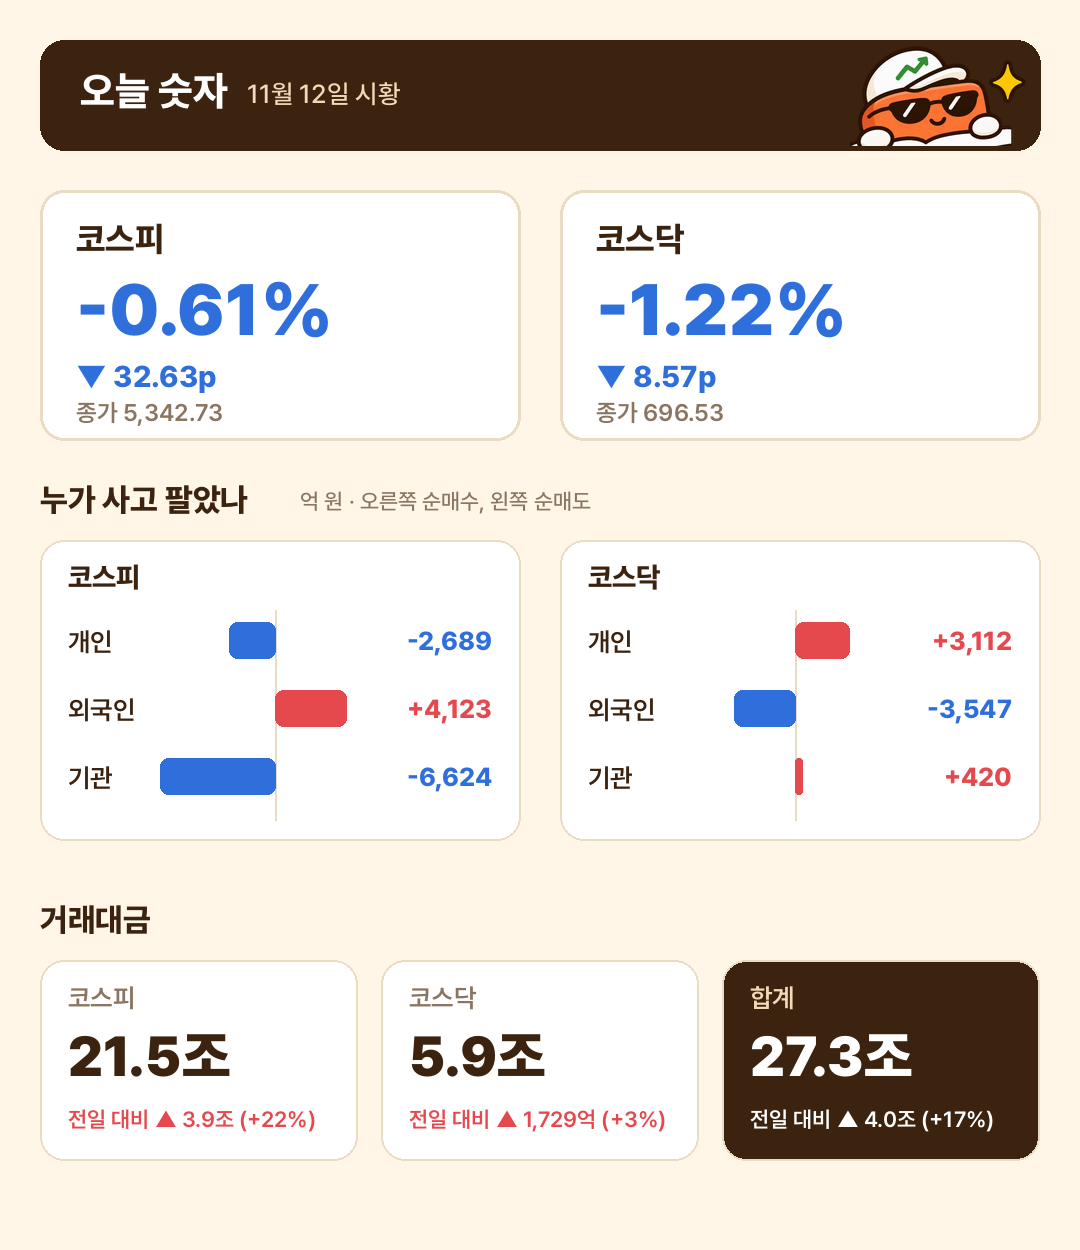
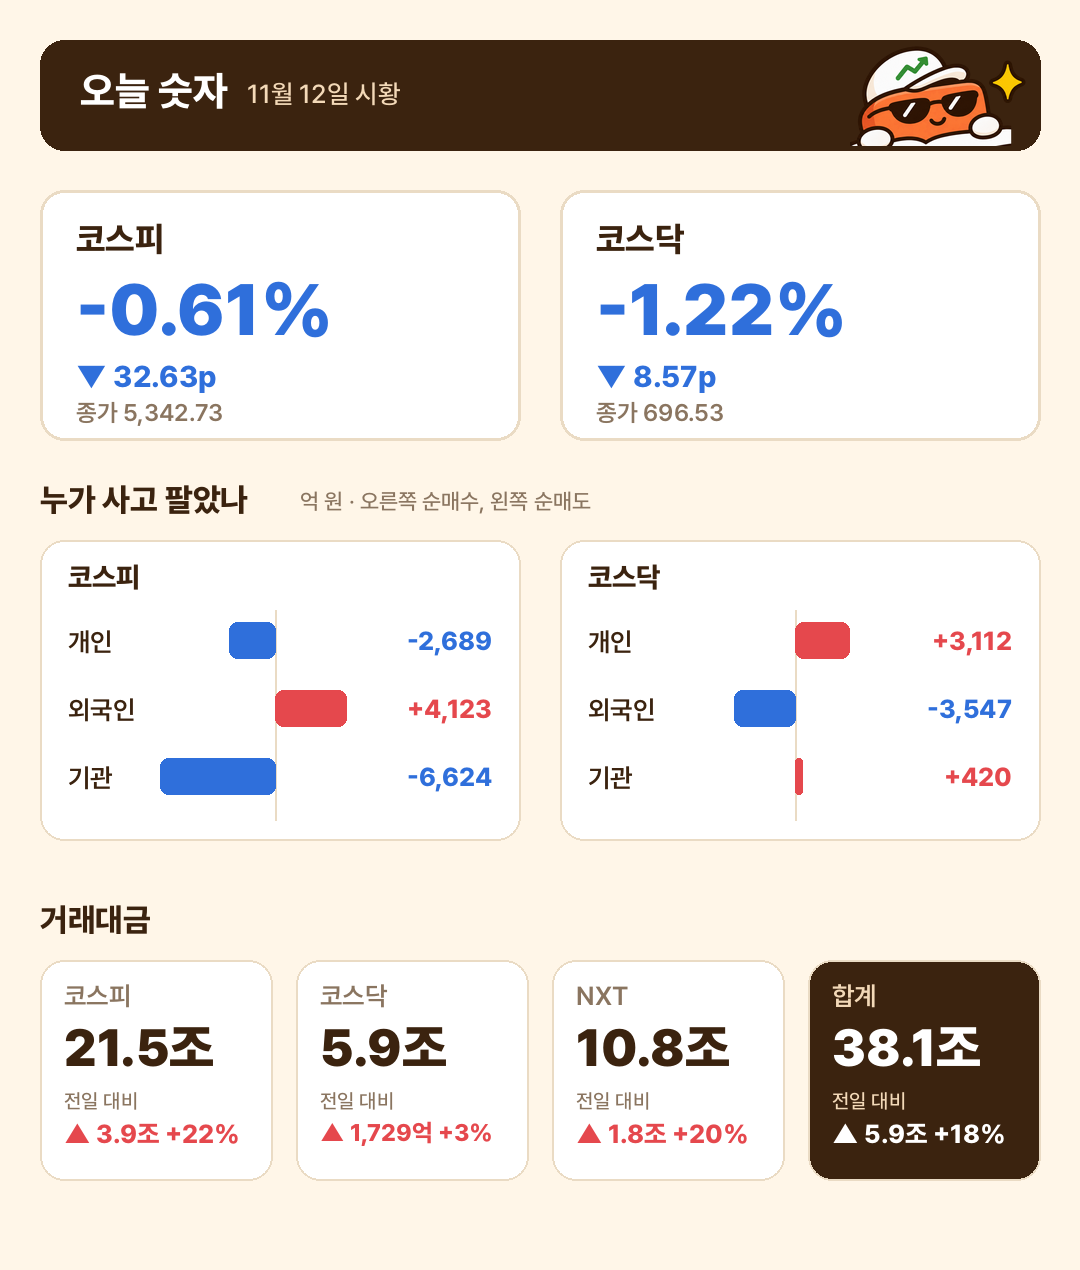
Add NXT trading value to daily numbers card
NXT's own daily table (일별거래현황, 백만원) gives pre, main and after
market value; the card shows the total next to KRX markets.

diff --git a/scripts/make_market_cards.py b/scripts/make_market_cards.py
@@ -190,7 +190,7 @@ def won(eok):
 def numbers_card(c, out):
     """데일리: 지수(등락률·전일 대비 포인트) + 시장별 투자자 순매수 막대 + 거래대금(합계·전일 대비)."""
     t = c["today"]
-    H = 1250
+    H = 1270
     img = Image.new("RGBA", (W, H), BEIGE); d = ImageDraw.Draw(img)
     header(d, img, "오늘 숫자", c["name"], W)
 
@@ -238,14 +238,15 @@ def numbers_card(c, out):
     for i, (name, now, prev) in enumerate(cells):
         x = 40 + i * (cw + 24)
         total = name == "합계"
-        rr(d, (x, y, x + cw, y + 200), 24, fill=BROWN if total else WHITE, outline=LINE, width=2)
+        rr(d, (x, y, x + cw, y + 220), 24, fill=BROWN if total else WHITE, outline=LINE, width=2)
         fg = WHITE if total else BROWN
-        d.text((x + 28, y + 22), name, font=F("SemiBold", 26), fill="#F3D9B8" if total else MUTED)
-        d.text((x + 28, y + 62), won(now), font=F("Black", 56), fill=fg)
-        if prev:
+        d.text((x + 24, y + 20), name, font=F("SemiBold", 26), fill="#F3D9B8" if total else MUTED)
+        d.text((x + 24, y + 56), won(now), font=F("Black", fit(d, won(now), "Black", 52, cw - 48)), fill=fg)
+        if prev:  # 칸이 좁아 '전일 대비'와 증감을 두 줄로 나눈다
             diff = now - prev
-            line = f"{'▲' if diff > 0 else '▼'} {won(abs(diff))} ({diff / prev * 100:+.0f}%)"
-            d.text((x + 28, y + 146), "전일 대비 " + line, font=F("SemiBold", 22),
+            d.text((x + 24, y + 128), "전일 대비", font=F("Medium", 20), fill="#F3D9B8" if total else MUTED)
+            line = f"{'▲' if diff > 0 else '▼'} {won(abs(diff))} {diff / prev * 100:+.0f}%"
+            d.text((x + 24, y + 158), line, font=F("ExtraBold", fit(d, line, "ExtraBold", 26, cw - 48)),
                    fill=fg if total else color(diff))
     img.convert("RGB").save(f"{out}/card_numbers.png")
 
